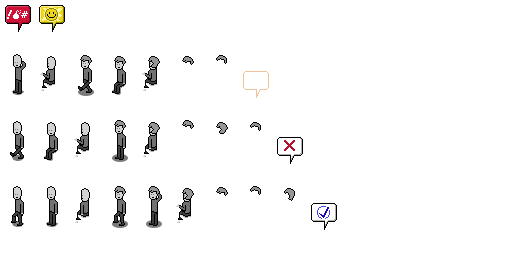
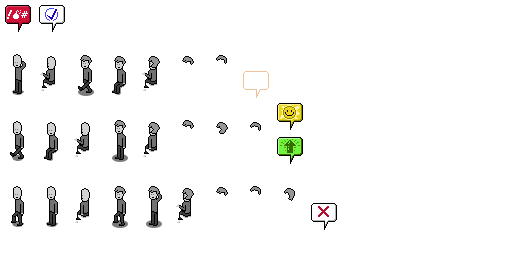
Added LevelUp EmojiBubble Fixed UI Not updating on failed mission

diff --git a/project/core/src/de/hsd/hacking/Data/Missions/MissionManager.java b/project/core/src/de/hsd/hacking/Data/Missions/MissionManager.java
@@ -95,8 +95,24 @@ public class MissionManager implements TimeChangedListener {
         completedMissions.add(mission);
 //        mission.setOutcome(outcome);
 
+
+
+
+
         notifyRefreshListeners();
     }
+
+    /**
+     * Failes this mission
+     *
+     * @param mission
+     */
+    public void failMission(Mission mission) {
+        activeMissions.remove(mission);
+
+        notifyRefreshListeners();
+    }
+
 
     /**
      * Aborts this mission
@@ -184,6 +200,8 @@ public class MissionManager implements TimeChangedListener {
                     if (worker.getMission().isCompleted()) {
 //                        completedMissions.add(worker.getMission());
                             completeMission(worker.getMission());
+                    } else {
+                        failMission(worker.getMission());
                     }
                 }
             }

diff --git a/project/core/src/de/hsd/hacking/Assets/Assets.java b/project/core/src/de/hsd/hacking/Assets/Assets.java
@@ -52,6 +52,7 @@ public class Assets {
     public TextureRegion emoji_angry;
     public TextureRegion emoji_ok;
     public TextureRegion emoji_no;
+    public TextureRegion emoji_levelup;
 
     public Array<TextureRegion> floor_tiles;
     public Array<TextureRegion> gray_character_body;
@@ -128,6 +129,7 @@ public class Assets {
         emoji_angry = character_atlas.findRegion("Emojis/angry");
         emoji_ok = character_atlas.findRegion("Emojis/ok");
         emoji_no = character_atlas.findRegion("Emojis/no");
+        emoji_levelup = character_atlas.findRegion("Emojis/levelup");
 
         mainmenu_bg = new Array<TextureRegion>();
         mainmenu_bg.addAll(ui_atlas.findRegions("MainMenuBackground"));

diff --git a/project/core/src/de/hsd/hacking/Entities/Employees/EmojiBubbleFactory.java b/project/core/src/de/hsd/hacking/Entities/Employees/EmojiBubbleFactory.java
@@ -14,7 +14,7 @@ public class EmojiBubbleFactory {
     public static EmojiBubbleFactory instance = new EmojiBubbleFactory();
 
     public enum EmojiType {
-        SUCCESS, FAILURE, OK, NO, SPEAKING
+        SUCCESS, FAILURE, OK, NO, SPEAKING, LEVELUP
     }
 
     /**
@@ -39,6 +39,9 @@ public class EmojiBubbleFactory {
                 break;
             case SPEAKING:
                 GameStage.instance().addToUILayer(new EmojiBubble(entity, Assets.instance().emoji_success));
+                break;
+            case LEVELUP:
+                GameStage.instance().addToUILayer(new EmojiBubble(entity, Assets.instance().emoji_levelup));
                 break;
         }
     }

diff --git a/project/core/src/de/hsd/hacking/Entities/Employees/Employee.java b/project/core/src/de/hsd/hacking/Entities/Employees/Employee.java
@@ -221,6 +221,20 @@ public class Employee extends Entity implements Comparable<Employee>, Touchable 
         }
     }
 
+    /**
+     * This is called as soon as the employee levels up.
+     */
+    public void onLevelUp(){
+        EmojiBubbleFactory.show(EmojiBubbleFactory.EmojiType.LEVELUP, this);
+
+        for (EmployeeSpecial special : employeeSpecials.toArray(new EmployeeSpecial[employeeSpecials.size()])) {
+            special.onLevelUp();
+        }
+
+        //TODO: Gehaltsverhandlungen starten
+
+    }
+
     private void setUpShader() {
         String vertexShader = Shader.vertexShader;
         String fragmentShader = Shader.getFragmentShader(

diff --git a/project/core/src/de/hsd/hacking/Entities/Employees/EmployeeSpecials/EmployeeSpecial.java b/project/core/src/de/hsd/hacking/Entities/Employees/EmployeeSpecials/EmployeeSpecial.java
@@ -93,6 +93,8 @@ public abstract class EmployeeSpecial extends Actor implements TimeChangedListen
 
     public void onMissionCompleted(){}
 
+    public void onLevelUp(){}
+
     /**
      * Override this if the special should be hidden in UI.
      * @return

diff --git a/project/core/src/de/hsd/hacking/Entities/Employees/EmployeeFactory.java b/project/core/src/de/hsd/hacking/Entities/Employees/EmployeeFactory.java
@@ -320,5 +320,7 @@ public class EmployeeFactory {
         spendScorePoints(employee);
 
         Gdx.app.log(Constants.TAG, employee.getName() + " has now " + employee.getUsedScore() + " score.");
+
+        employee.onLevelUp();
     }
 }
